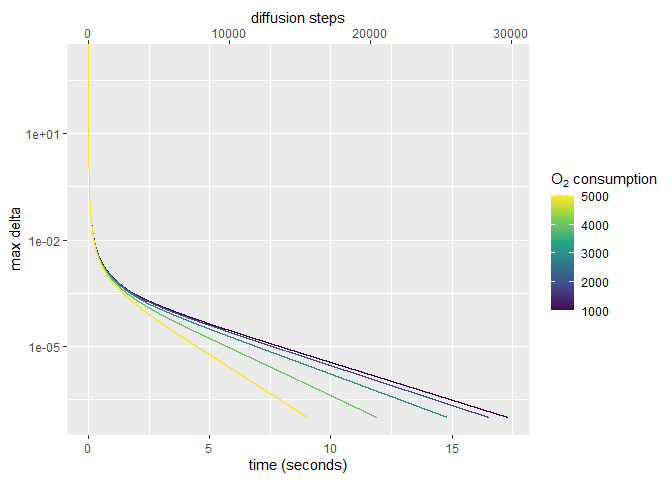
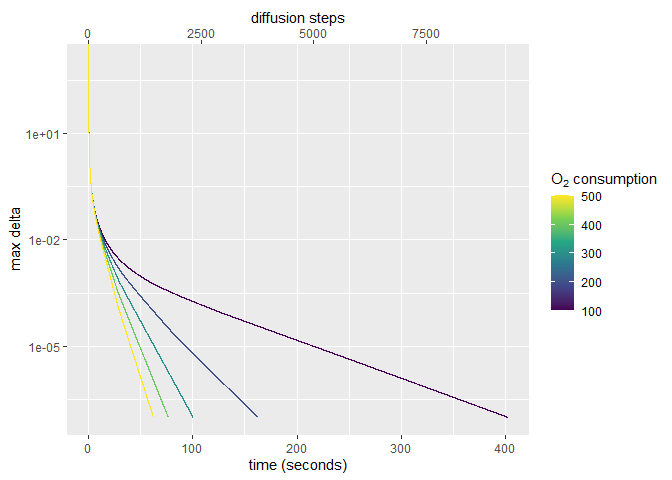
fix example

diff --git a/examples/test_diffusion/README.md b/examples/test_diffusion/README.md
@@ -1,7 +1,7 @@
 test_diffusion
 ================
 Richard J Beck
-2024-10-15
+2024-10-17
 
 This example demonstrates setup and run for a sweep where
 normal_oxygen_consumption_rate is varied and we examine how many
@@ -57,25 +57,25 @@ df <- do.call(rbind,lapply(runs,function(r){
   o2[!is.na(o2$O2),]
 }))
 
-df <- df[df$time<2,]
+df <- df[df$time<1,]
 summary(df)
 ```
 
-    ##       time         O2               maxDelta      
-    ##  Min.   :1   Min.   :0.0000714   Min.   :0.0e+00  
-    ##  1st Qu.:1   1st Qu.:0.0209348   1st Qu.:1.0e-06  
-    ##  Median :1   Median :0.0281249   Median :8.0e-06  
-    ##  Mean   :1   Mean   :0.0289617   Mean   :    Inf  
-    ##  3rd Qu.:1   3rd Qu.:0.0365799   3rd Qu.:7.1e-05  
-    ##  Max.   :1   Max.   :0.0460146   Max.   :    Inf  
-    ##                                  NA's   :5        
+    ##       time                 O2               maxDelta       
+    ##  Min.   :0.0000005   Min.   :0.0000714   Min.   :0.000000  
+    ##  1st Qu.:0.0004660   1st Qu.:0.0032072   1st Qu.:0.000002  
+    ##  Median :0.0010160   Median :0.0047713   Median :0.000023  
+    ##  Mean   :0.0014994   Mean   :0.0064349   Mean   :     Inf  
+    ##  3rd Qu.:0.0023331   3rd Qu.:0.0102185   3rd Qu.:0.000413  
+    ##  Max.   :0.0046620   Max.   :0.0102510   Max.   :     Inf  
+    ##                                          NA's   :5         
     ##  normal_oxygen_consumption_rate
-    ##  Min.   :1000                  
-    ##  1st Qu.:2000                  
-    ##  Median :3000                  
-    ##  Mean   :2696                  
-    ##  3rd Qu.:4000                  
-    ##  Max.   :5000                  
+    ##  Min.   :100.0                 
+    ##  1st Qu.:100.0                 
+    ##  Median :100.0                 
+    ##  Mean   :204.8                 
+    ##  3rd Qu.:300.0                 
+    ##  Max.   :500.0                 
     ## 
 
 Plot the maximum delta in the oxygen field for each value of the swept
@@ -85,7 +85,7 @@ parameter:
 library(ggplot2)
 
 sps <- 1/(diff(df$time[1:2])*(24*60^2)) ## seconds per timestep
-p <- ggplot(df,aes(x=(time-1)*(24*60^2),y=maxDelta))+
+p <- ggplot(df,aes(x=time*(24*60^2),y=maxDelta))+
   geom_line(aes(color=normal_oxygen_consumption_rate,
                 group=normal_oxygen_consumption_rate))+
  
@@ -118,7 +118,7 @@ x <- rbind(get_dtol_pts(df,0.0001),
 
 sps <- 1/(diff(df$time[1:2])*(24*60^2))
 
-p <- ggplot(df,aes(x=(time-1)*(24*60^2),y=O2))+
+p <- ggplot(df,aes(x=time*(24*60^2),y=O2))+
   geom_line(aes(color=normal_oxygen_consumption_rate,
                 group=normal_oxygen_consumption_rate))+
   geom_line(data=x,aes(linetype =as.character(tol)))+
